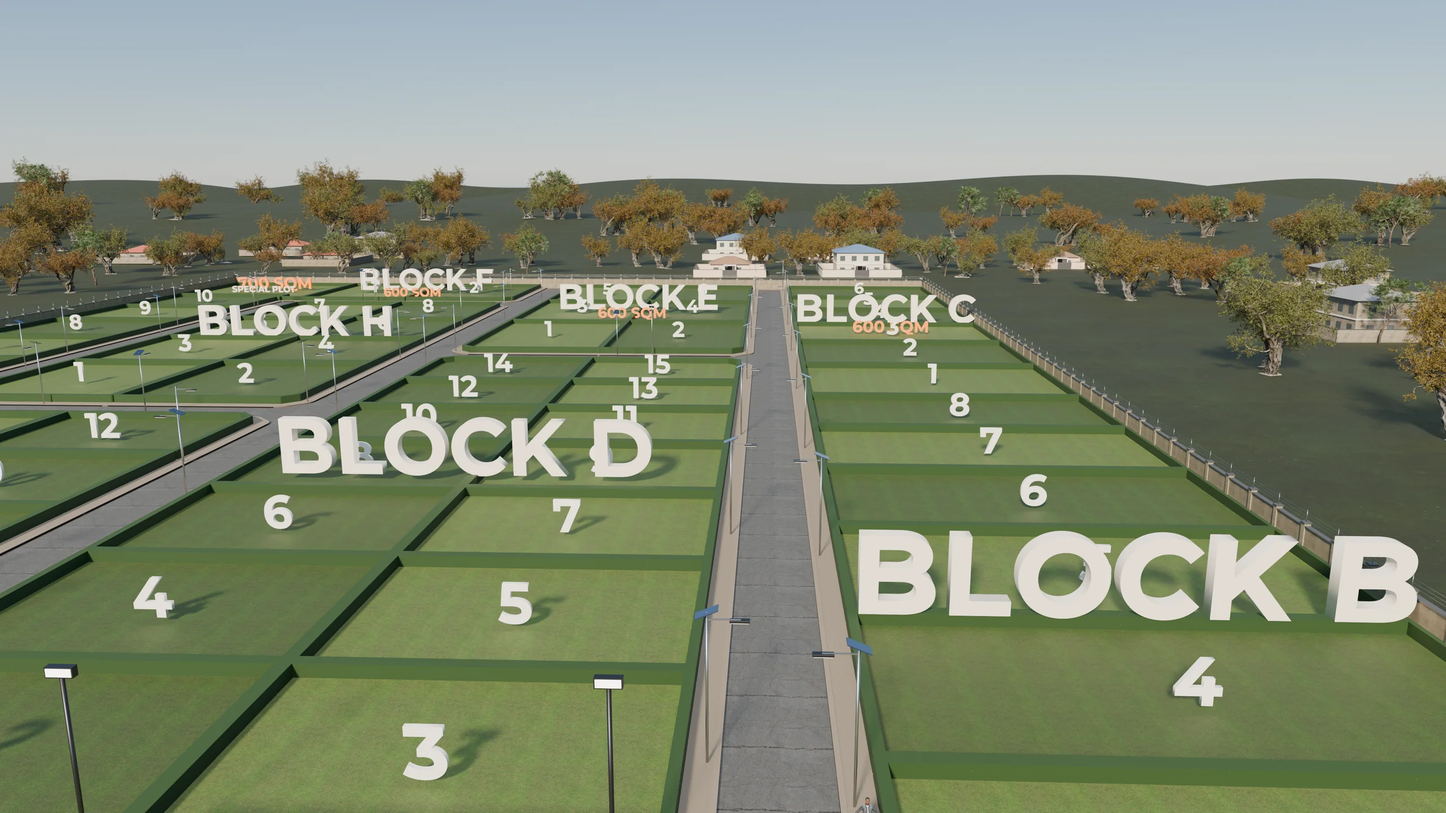
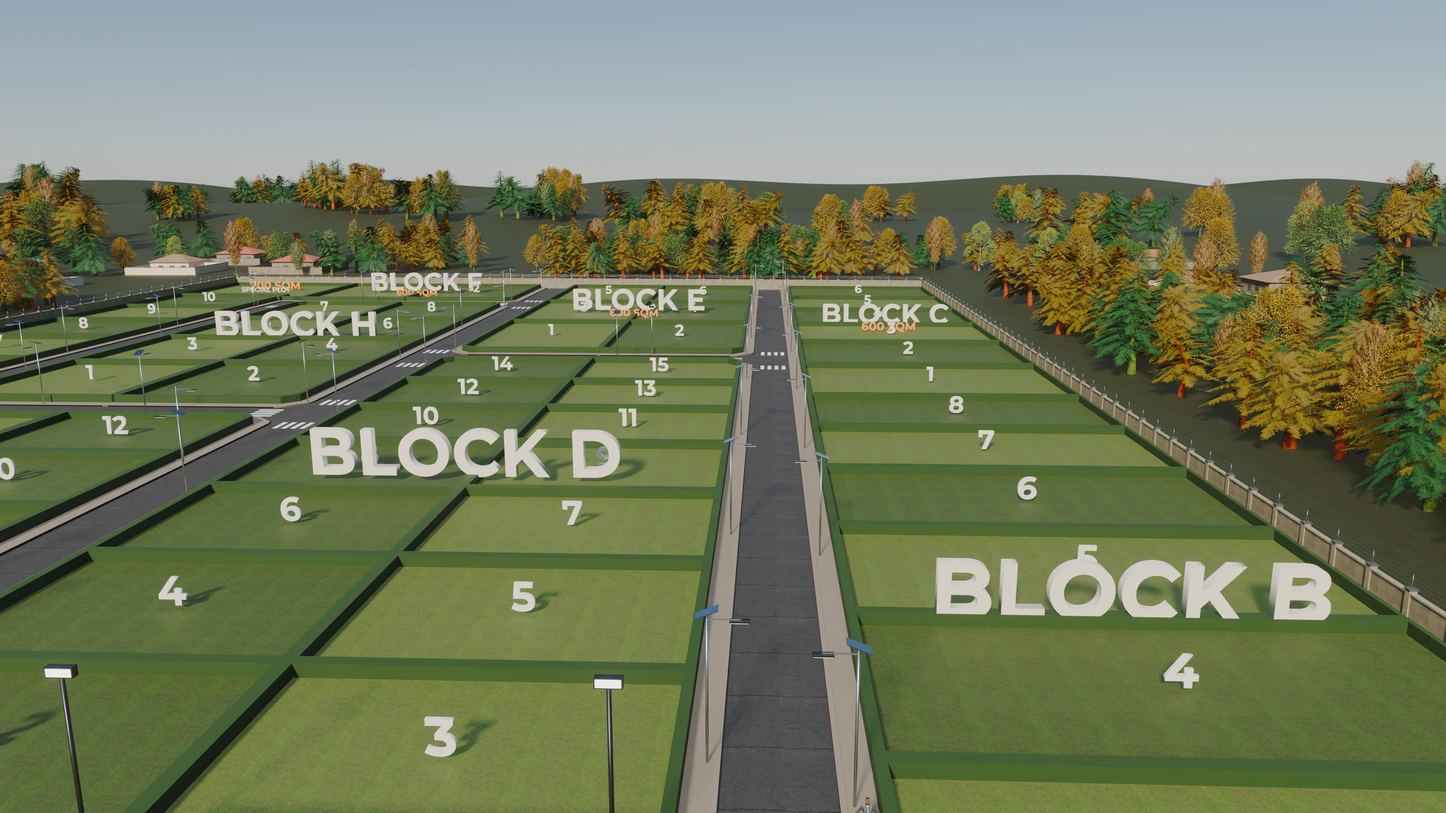
Epe: latest renders, sharper image quality
Claude-Session: https://claude.ai/code/session_01WL6oPzTDwuXP2fAgod6whF

diff --git a/lib/blur.ts b/lib/blur.ts
@@ -30,18 +30,18 @@ export const TONE: Record<string, string> = {
   "masterplan-labelled": "#616751",
   "positioning-frontage": "#868c8a",
   "purchase-dusk-aerial": "#736c61",
-  "epe-avenue-drone": "#808971",
-  "epe-entrance-drone": "#72775d",
-  "epe-estate-aerial": "#61654b",
+  "epe-avenue-drone": "#737b5d",
+  "epe-entrance-drone": "#65694b",
+  "epe-estate-aerial": "#585c3a",
   "epe-front-aerial": "#686c52",
-  "epe-gate-angle": "#8e908c",
-  "epe-gate-front": "#848b8a",
-  "epe-gym-supermart": "#84888a",
+  "epe-gate-angle": "#7c7f78",
+  "epe-gate-front": "#757c79",
+  "epe-gym-supermart": "#797c7e",
   "epe-landmark-airport": "#8e9394",
-  "epe-main-avenue": "#838d8c",
-  "epe-pitch-pool": "#7d826c",
+  "epe-main-avenue": "#707a79",
+  "epe-pitch-pool": "#6e735b",
   "epe-special-700": "#62674b",
-  "epe-swimming-pool": "#798583",
+  "epe-swimming-pool": "#6b7774",
   "epe-west-aerial": "#687051",
   "epe-3d-poster": "#5f6449",
 };

diff --git a/next.config.ts b/next.config.ts
@@ -4,6 +4,8 @@ const nextConfig: NextConfig = {
   agentRules: false,
   images: {
     formats: ["image/avif", "image/webp"],
+    // 75 (the default) left the renders soft; one higher step keeps them crisp at a small cost
+    qualities: [88],
   },
 };
 
